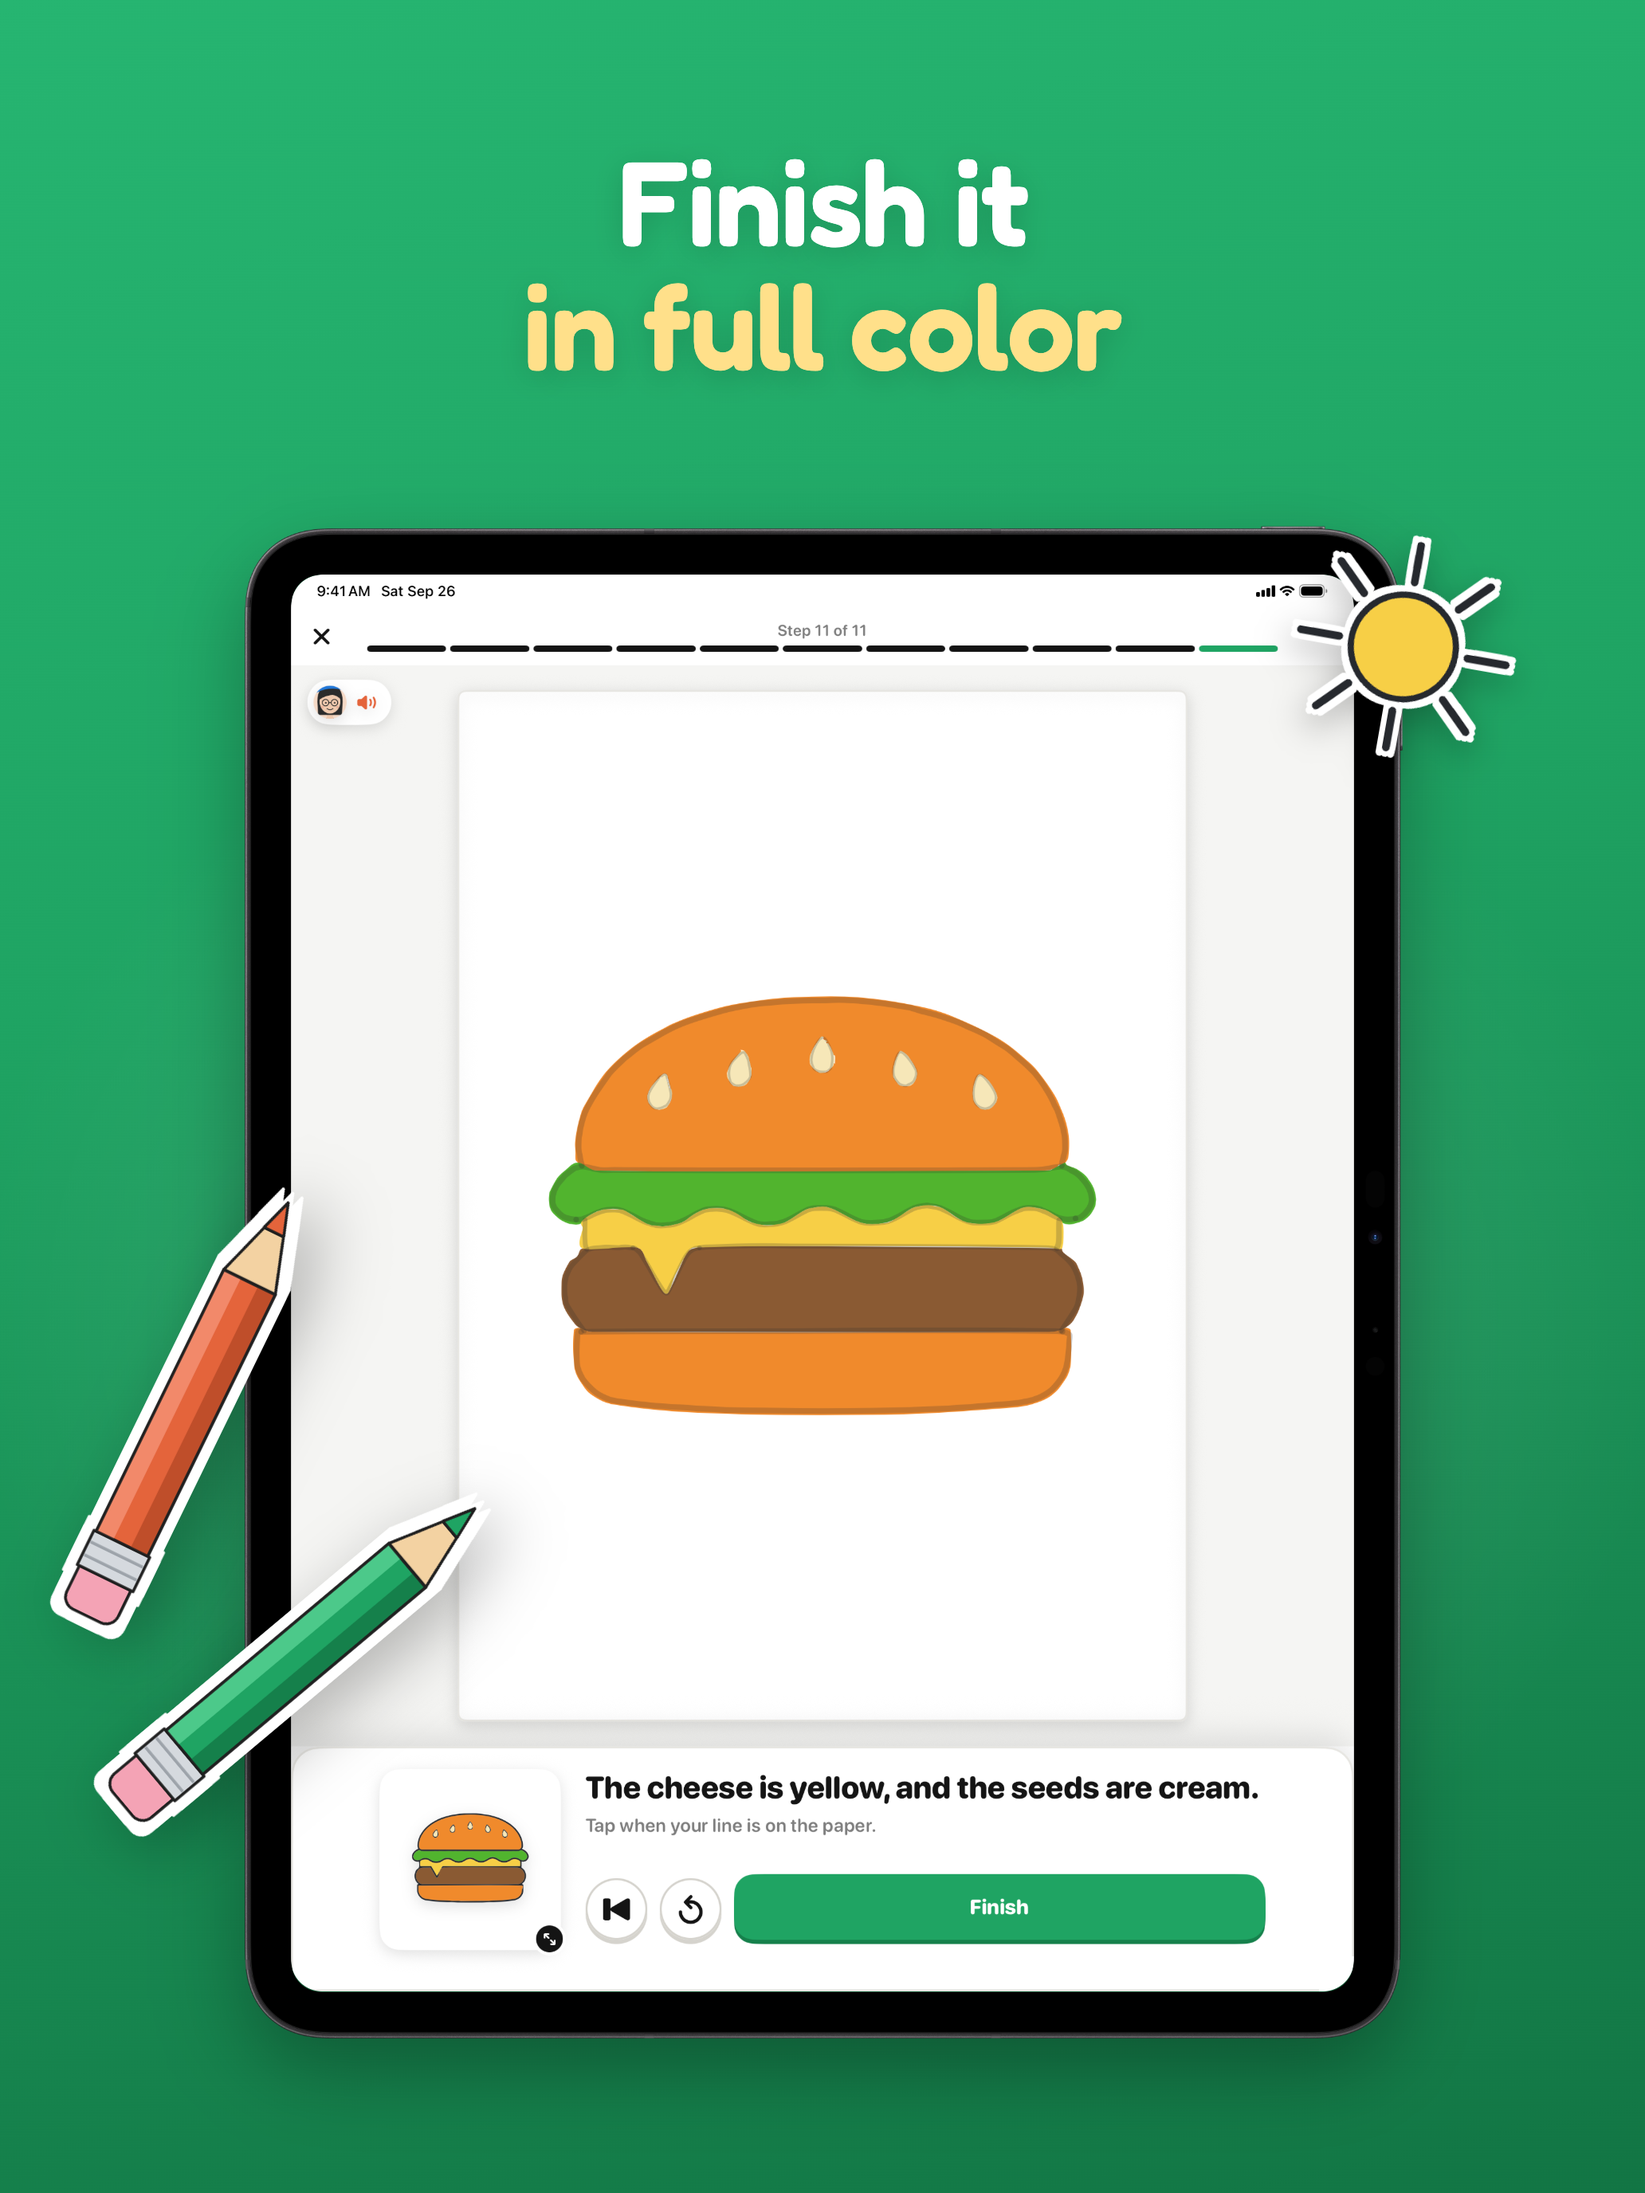
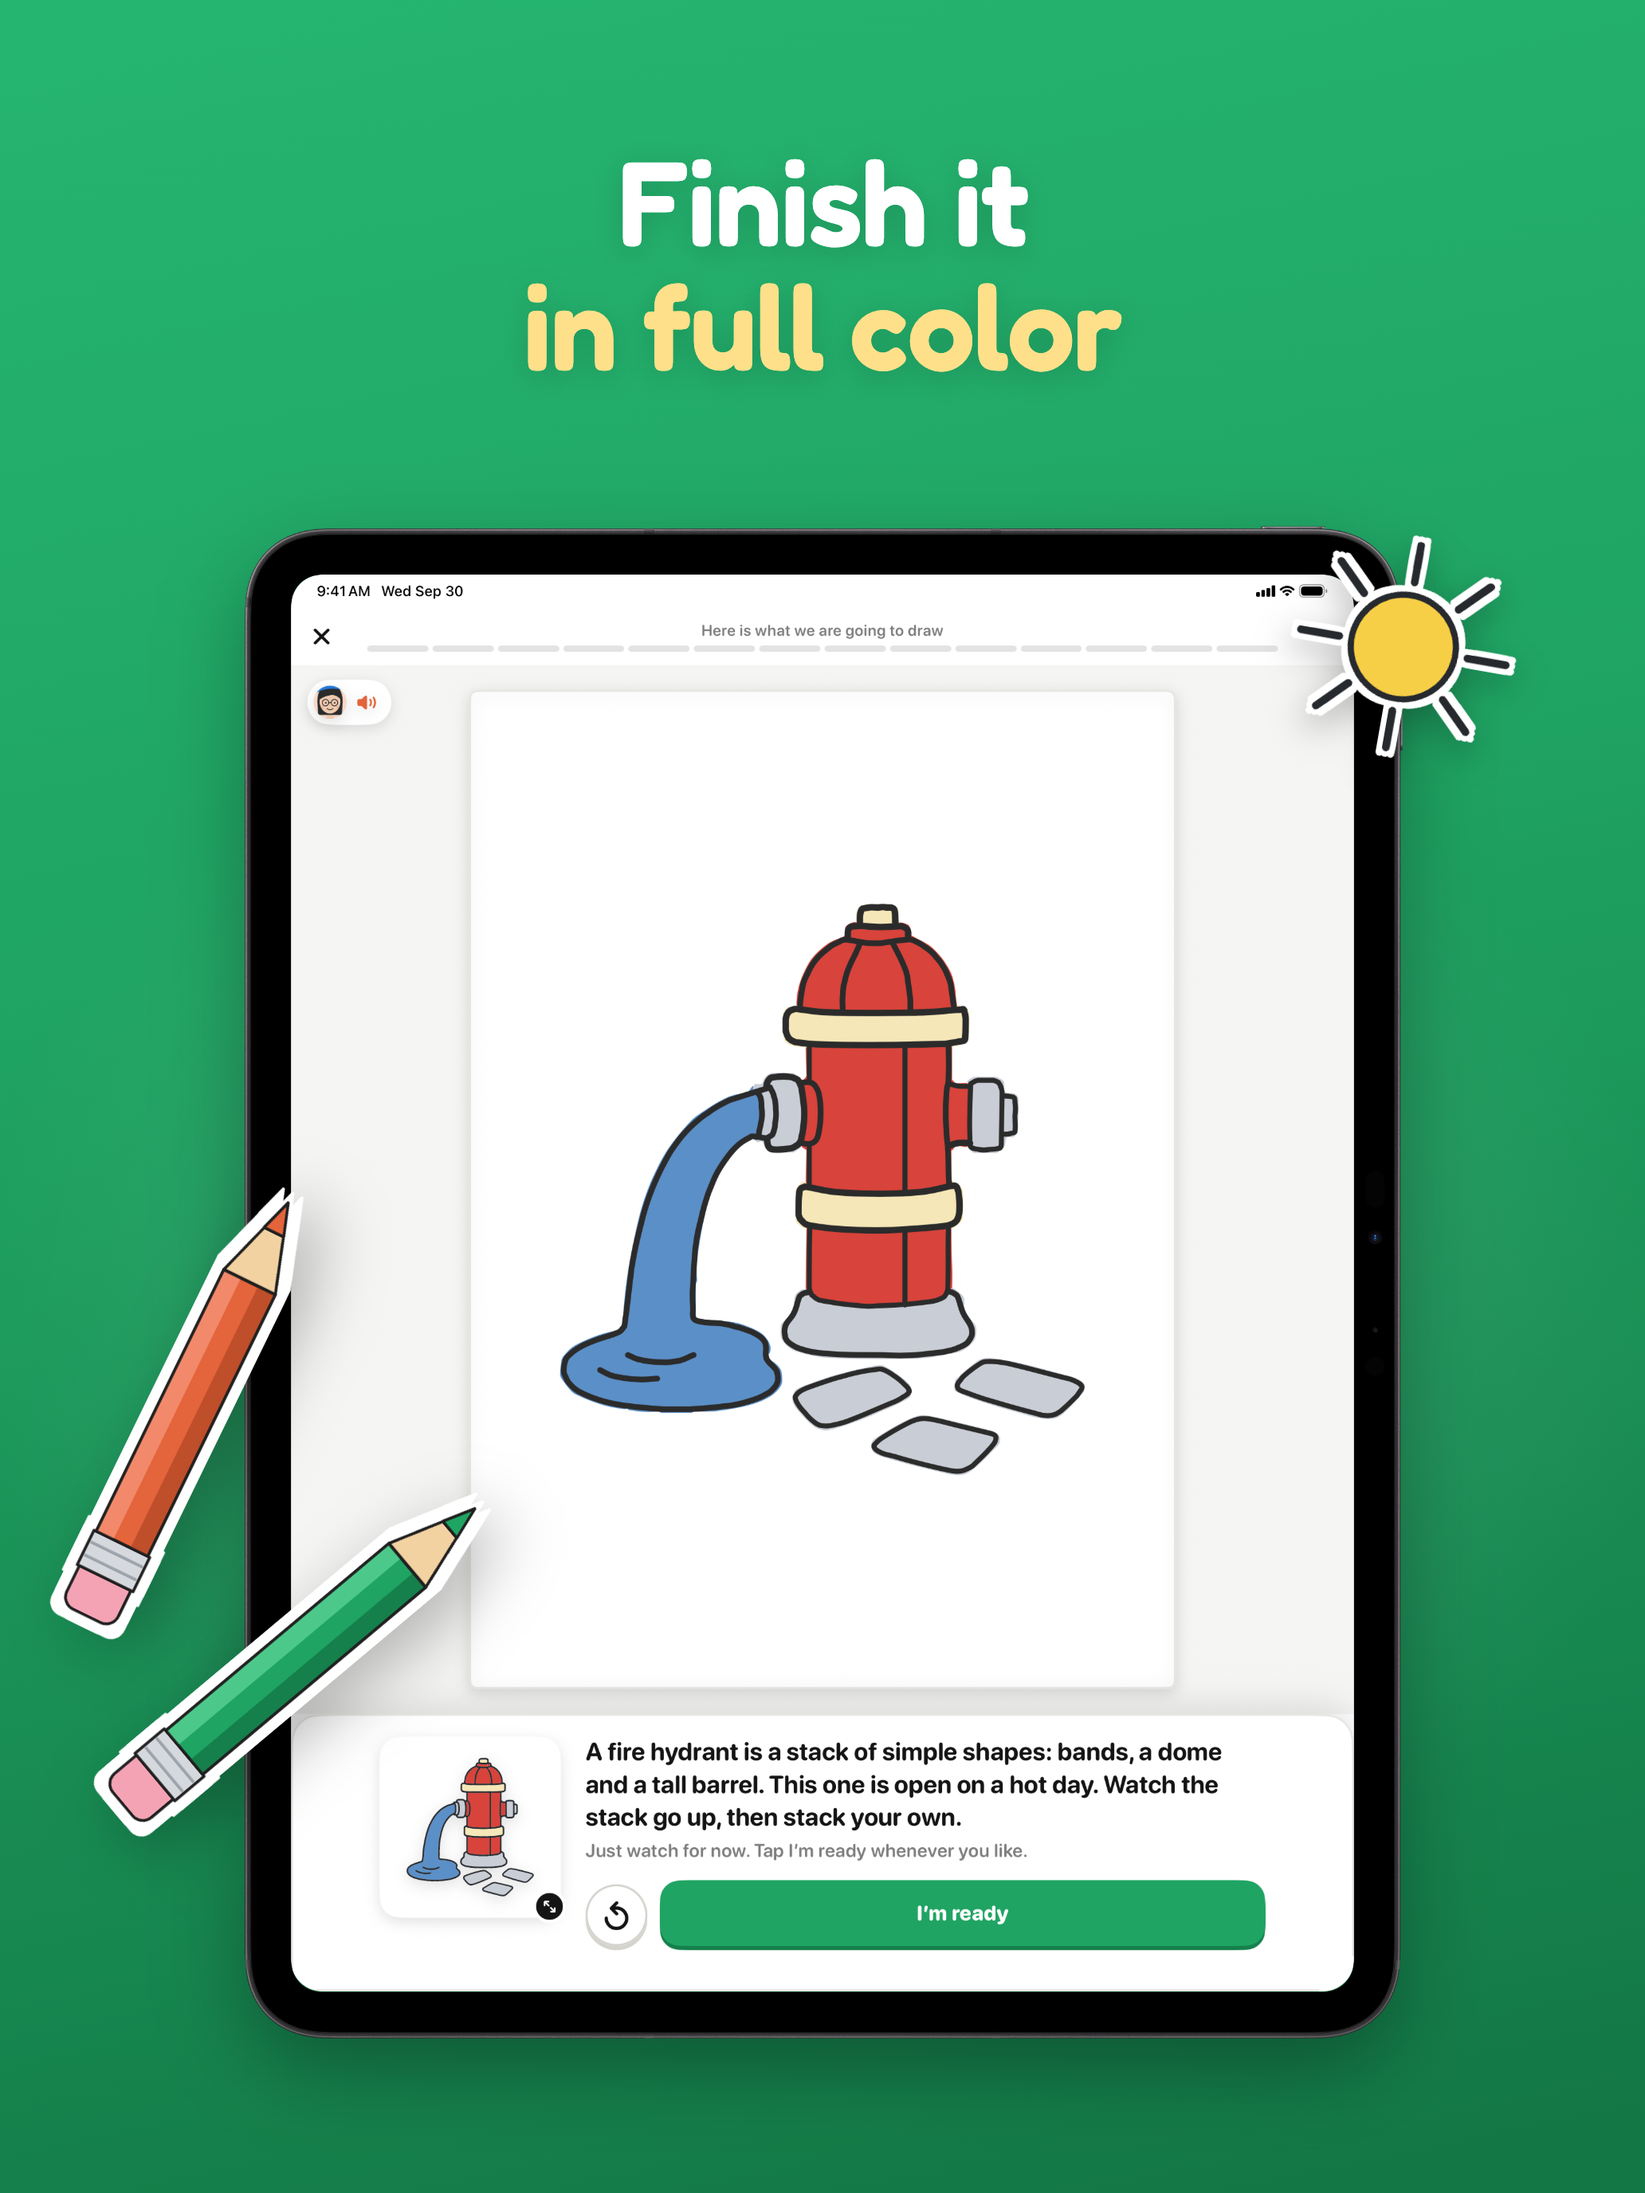
App Store art: shot 4 finishes the fire hydrant, lines over color
Kevin's call: the color shot shows Around Town's fire hydrant instead of the
burger, as the finished drawing with both its color and its lines. The
player's last step fades the earlier lines to 22 %, so the capture is now the
lesson's intro (`player-orientation@fire-hydrant`), which builds the drawing
and then rests on it whole, every line at full strength over the color: the
first thing every learner sees in a lesson. It needs SETTLE=25.

On the iPhone the green pencil stands steeper and further left so it no longer
covers the first word of the sheet; the iPad keeps both pencils where they were.
Captured from 1.1 (4). README and CLAUDE.md name the new capture.

diff --git a/docs/app-store/marketing/gallery.html b/docs/app-store/marketing/gallery.html
@@ -34,7 +34,7 @@
 <body>
 <main>
   <h1>Paper Coach screenshots</h1>
-  <p class="meta">docs/app-store/marketing/out · last committed b89de30 2026-09-30 14:49 · click one for full size</p>
+  <p class="meta">docs/app-store/marketing/out · last committed f9dfe9d 2026-09-30 14:53 · click one for full size</p>
 
   <section>
     <h2>In App Store search <span>the first three, at the size search shows them</span></h2>
@@ -59,7 +59,7 @@
         <figcaption><b>03</b> Keep every drawing</figcaption>
       </figure>
       <figure>
-        <a href="out/iphone/04-color.png?v=1790651158925" target="_blank"><img src="out/iphone/04-color.png?v=1790651158925" alt="Finish it in full color" loading="lazy"></a>
+        <a href="out/iphone/04-color.png?v=1790802228202" target="_blank"><img src="out/iphone/04-color.png?v=1790802228202" alt="Finish it in full color" loading="lazy"></a>
         <figcaption><b>04</b> Finish it in full color</figcaption>
       </figure>
       <figure>
@@ -97,7 +97,7 @@
         <figcaption><b>03</b> Keep every drawing</figcaption>
       </figure>
       <figure>
-        <a href="out/ipad/04-color.png?v=1790651159652" target="_blank"><img src="out/ipad/04-color.png?v=1790651159652" alt="Finish it in full color" loading="lazy"></a>
+        <a href="out/ipad/04-color.png?v=1790802187921" target="_blank"><img src="out/ipad/04-color.png?v=1790802187921" alt="Finish it in full color" loading="lazy"></a>
         <figcaption><b>04</b> Finish it in full color</figcaption>
       </figure>
       <figure>

diff --git a/docs/app-store/marketing/shots.js b/docs/app-store/marketing/shots.js
@@ -113,12 +113,21 @@ export const SHOTS = [
   {
     id: 'color',
     title: 'Finish it<br><em>in full color</em>',
-    capture: 'player-last@burger',
+    capture: 'player-orientation@fire-hydrant',
     stickers: [
       { name: 'pencil:clay', x: -0.035, y: 0.58, size: 0.56, rot: -64 },
       { name: 'pencil:green', x: 0.06, y: 0.74, size: 0.56, rot: -40 },
       { name: 'sun', x: 0.99, y: 0.09, size: 0.30, rot: 10 },
     ],
+    // On the iPhone the sheet's words start further left, so the green pencil stands
+    // steeper and lower-left, clear of "A fire hydrant…".
+    iphone: {
+      stickers: [
+        { name: 'pencil:clay', x: -0.035, y: 0.58, size: 0.56, rot: -64 },
+        { name: 'pencil:green', x: -0.02, y: 0.70, size: 0.56, rot: -56 },
+        { name: 'sun', x: 0.99, y: 0.09, size: 0.30, rot: 10 },
+      ],
+    },
   },
   {
     id: 'method',

diff --git a/docs/app-store/marketing/README.md b/docs/app-store/marketing/README.md
@@ -9,7 +9,7 @@ They replace the plain simulator captures in `../screenshots/`.
 | 1 | Learn to draw step by step | `player-awaiting`, with a photo of a hand drawing the same palm tree on paper, the marker at the end of the leaf the phone shows |
 | 2 | Draw what you love | `paths` |
 | 3 | Keep every drawing | `sketchbook-filled`, with a photo of hands holding a sketchpad with the sunflower lesson drawn and colored on it |
-| 4 | Finish it in full color | `player-last@burger` |
+| 4 | Finish it in full color | `player-orientation@fire-hydrant`: the lesson's intro once it has built the whole drawing, lines over color |
 | 5 | Watch a line, then draw it | `preview-default@rocket` |
 | 6 | Start simple, then level up | `path-default` |
 | 7 | A finished picture in minutes | `completion-default@sailboat` |
@@ -86,13 +86,17 @@ After a UI change, build the Debug app for the simulator, install it on the two 
 gives their udids), boot them, then capture and render:
 
 ```bash
-docs/app-store/marketing/capture.sh <iphone udid> iphone player-awaiting paths sketchbook-filled player-last@burger preview-default@rocket path-default completion-default@sailboat home-progress
-docs/app-store/marketing/capture.sh <ipad udid> ipad player-awaiting paths sketchbook-filled player-last@burger preview-default@rocket path-default completion-default@sailboat home-progress
+docs/app-store/marketing/capture.sh <iphone udid> iphone player-awaiting paths sketchbook-filled preview-default@rocket path-default completion-default@sailboat home-progress
+docs/app-store/marketing/capture.sh <ipad udid> ipad player-awaiting paths sketchbook-filled preview-default@rocket path-default completion-default@sailboat home-progress
+SETTLE=25 docs/app-store/marketing/capture.sh <iphone udid> iphone player-orientation@fire-hydrant
+SETTLE=25 docs/app-store/marketing/capture.sh <ipad udid> ipad player-orientation@fire-hydrant
 node docs/app-store/marketing/render.mjs
 ```
 
-A lesson screen draws the palm tree unless another lesson follows an `@` (`player-last@burger` launches with
-`-STLesson burger`). Only shot 1 uses the palm tree, since its photo shows the same drawing; the others each show a
+A lesson screen draws the palm tree unless another lesson follows an `@` (`player-orientation@fire-hydrant`
+launches with `-STLesson fire-hydrant`). Shot 4 is the lesson's intro, which builds the drawing and then rests on
+it whole, lines at full strength over the color, so it needs `SETTLE=25`; the player's last step would show the
+earlier lines faded. Only shot 1 uses the palm tree, since its photo shows the same drawing; the others each show a
 different free lesson from another path, so the listing shows the range of drawings, not one picture four times.
 
 Each screen gets 8 seconds to settle (the player's reference picture loads last); Home needs longer: capture it

diff --git a/CLAUDE.md b/CLAUDE.md
@@ -36,15 +36,15 @@ commit the captures and `out/` with the change.
 | 1 | Learn to draw step by step | `player-awaiting` | `Features/Player/` |
 | 2 | Draw what you love | `paths` | `Features/Home/PathsView.swift` |
 | 3 | Keep every drawing | `sketchbook-filled` | `Features/Sketchbook/` |
-| 4 | Finish it in full color | `player-last@burger` | `Features/Player/` |
+| 4 | Finish it in full color | `player-orientation@fire-hydrant` | `Features/Player/` |
 | 5 | Watch a line, then draw it | `preview-default@rocket` | `Features/Home/LessonPreviewView.swift` |
 | 6 | Start simple, then level up | `path-default` | `Features/Home/PathDetailView.swift` |
 | 7 | A finished picture in minutes | `completion-default@sailboat` | `Features/Completion/CompletionView.swift` |
 | 8 | Pick up where you left off | `home-progress` | `Features/Home/HomeView.swift` |
 
 These also reach the screenshots: `Design/` (theme, shared components), `App/MainTabs.swift` (tab bar, iPad sidebar),
-`App/DebugScreenHarness.swift`, and in `shared/` the catalog and the drawings of the lessons shown (palm tree, burger,
-rocket, sailboat). A change nobody would see on these screens needs no new screenshots.
+`App/DebugScreenHarness.swift`, and in `shared/` the catalog and the drawings of the lessons shown (palm tree, fire
+hydrant, rocket, sailboat). A change nobody would see on these screens needs no new screenshots.
 
 Shot 1 stays as designed (the palm tree, the photo of a hand drawing it, the layout): the creator asked for it to be
 left unchanged. If the player changes, take its phone screen again with the same lesson and step, nothing more.
